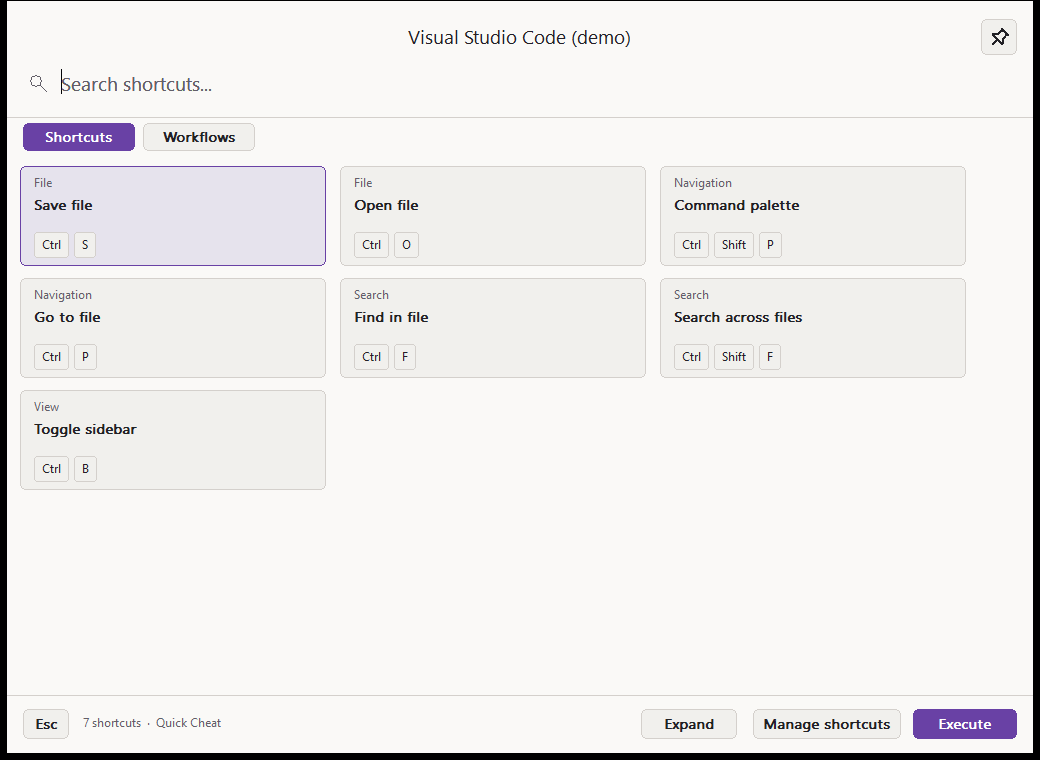
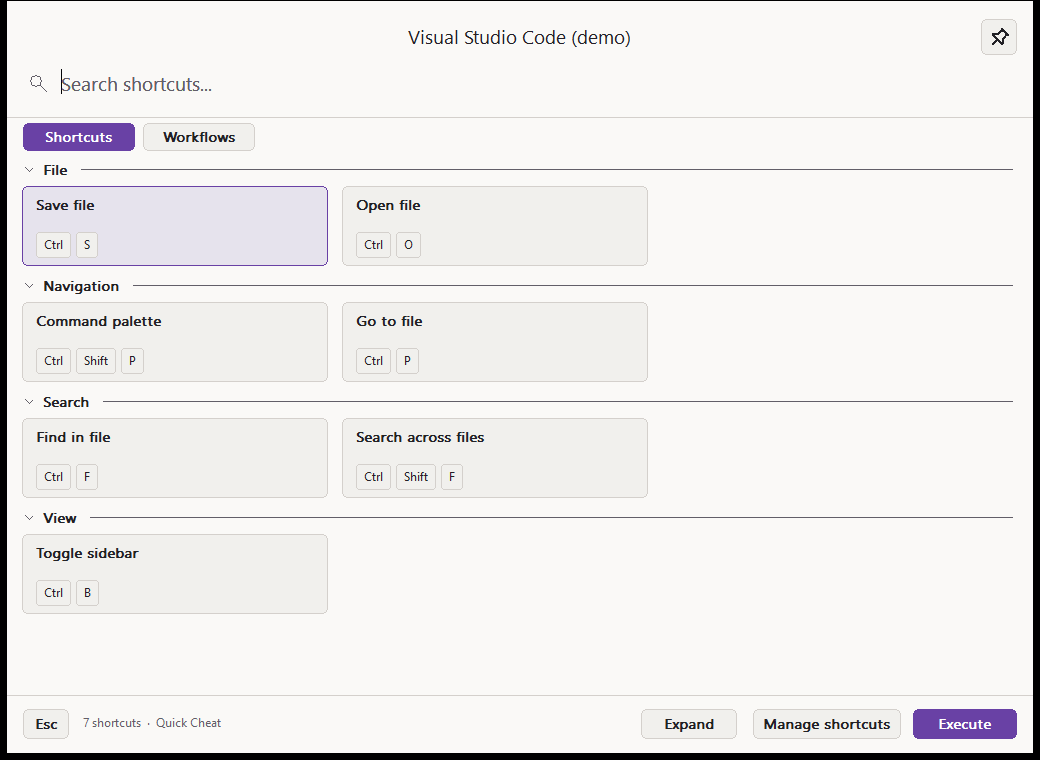
feat: group shortcut tiles in persistent collapsible categories

diff --git a/src/popup.cpp b/src/popup.cpp
@@ -7,6 +7,12 @@ constexpr int Search=6;
 void executeSelected(App& app){auto selected=app.selectedShortcut();if(selected>=0)app.execute(static_cast<size_t>(selected));}
 LRESULT CALLBACK rowProc(HWND h,UINT msg,WPARAM w,LPARAM l,UINT_PTR,DWORD_PTR value){
  auto* app=reinterpret_cast<App*>(value);
+ if(msg==WM_PAINT){auto result=DefSubclassProc(h,msg,w,l);HDC dc=GetDC(h);for(size_t i=0;i<app->shortcutCategories.size();++i){NMLVCUSTOMDRAW draw{};draw.nmcd.hdc=dc;draw.nmcd.dwItemSpec=i;app->drawCategory(&draw);}ReleaseDC(h,dc);return result;}
+ if(msg==WM_LBUTTONDOWN||msg==WM_LBUTTONDBLCLK){POINT point{static_cast<short>(LOWORD(l)),static_cast<short>(HIWORD(l))};if(app->clickCategory(point))return 0;}
+ if(msg==WM_LBUTTONUP||msg==WM_KEYUP){auto result=DefSubclassProc(h,msg,w,l);app->syncCategoryStates();return result;}
+ if(msg==WM_KEYDOWN&&(w==VK_LEFT||w==VK_RIGHT||w==VK_SPACE)){
+  for(size_t i=0;i<app->shortcutCategories.size();++i)if(ListView_GetGroupState(h,static_cast<int>(i),LVGS_FOCUSED)&LVGS_FOCUSED){LVGROUP group{sizeof(group)};group.mask=LVGF_STATE;group.stateMask=LVGS_COLLAPSED;bool collapsed=(ListView_GetGroupState(h,static_cast<int>(i),LVGS_COLLAPSED)&LVGS_COLLAPSED)!=0;group.state=(w==VK_LEFT||(w==VK_SPACE&&!collapsed))?LVGS_COLLAPSED:0;ListView_SetGroupInfo(h,static_cast<int>(i),&group);app->syncCategoryStates();return 0;}
+ }
  if(msg==WM_LBUTTONDOWN){auto result=DefSubclassProc(h,msg,w,l);app->pressedWindow=app->target.window;app->pressedProcess=app->target.process;app->pressedRow=app->selectedShortcut();app->updateShortcutDetail();SetFocus(app->search);return result;}
  if(msg==WM_KEYDOWN&&w==VK_RETURN){executeSelected(*app);return 0;}
  if(msg==WM_KEYDOWN&&w==VK_ESCAPE){app->hidePopup();return 0;}
@@ -18,7 +24,7 @@ LRESULT CALLBACK searchProc(HWND h,UINT msg,WPARAM w,LPARAM l,UINT_PTR,DWORD_PTR
  if(msg==WM_KEYDOWN){
  if(w==VK_ESCAPE){app->hidePopup();return 0;}if(w==VK_RETURN){if(app->workflowsVisible){SetFocus(app->workflowTree);auto item=TreeView_GetSelection(app->workflowTree);if(item)TreeView_Expand(app->workflowTree,item,TVE_TOGGLE);}else executeSelected(*app);return 0;}
  if(w==VK_OEM_COMMA&&(GetKeyState(VK_CONTROL)&0x8000)){app->openEditor();return 0;}
- if(w==VK_UP||w==VK_DOWN){if(app->workflowsVisible){SetFocus(app->workflowTree);SendMessageW(app->workflowTree,msg,w,l);return 0;}int count=static_cast<int>(app->visibleRows.size()),selected=app->selectedShortcut();if(count>0)app->selectShortcut(selected<0?0:(std::clamp)(selected+(w==VK_DOWN?1:-1),0,count-1));return 0;}
+ if(w==VK_UP||w==VK_DOWN){if(app->workflowsVisible){SetFocus(app->workflowTree);SendMessageW(app->workflowTree,msg,w,l);return 0;}app->moveShortcutSelection(w==VK_DOWN?1:-1);return 0;}
  }
  if(msg==WM_CHAR&&(w==VK_RETURN||w==VK_ESCAPE))return 0;
  if(msg==WM_PAINT){auto result=DefSubclassProc(h,msg,w,l);if(GetWindowTextLengthW(h)==0){HDC dc=GetDC(h);RECT r;GetClientRect(h,&r);r.left+=8;auto old=SelectObject(dc,app->bold);paintText(dc,app->workflowsVisible?L"Search workflows...":L"Search shortcuts...",r,app->theme.colors.muted);SelectObject(dc,old);ReleaseDC(h,dc);}return result;}
@@ -71,7 +77,7 @@ void App::layoutPopup(){
  InvalidateRect(popup,nullptr,TRUE);
 }
 void App::refreshPopup(bool clearSearch){
- if(!popup||updatingPopup)return;updatingPopup=true;pressedRow=-1;if(clearSearch)SetWindowTextW(search,L"");
+ if(!popup||updatingPopup)return;syncCategoryStates();updatingPopup=true;pressedRow=-1;if(clearSearch)SetWindowTextW(search,L"");
  auto* profile=currentProfile();auto query=textOf(search);visibleRows.clear();SendMessageW(rows,WM_SETREDRAW,FALSE,0);ListView_DeleteAllItems(rows);ListView_RemoveAllGroups(rows);
  SetWindowTextW(heading,(profile?profile->name:target.name.empty()?L"No active application":target.name).c_str());
  if(profile){for(size_t i=0;i<profile->shortcuts.size();++i)if(matchesShortcut(profile->shortcuts[i],query))visibleRows.push_back(i);
@@ -79,7 +85,7 @@ void App::refreshPopup(bool clearSearch){
  }populateShortcutTiles();
  ShowWindow(rows,visibleRows.empty()?SW_HIDE:SW_SHOWNA);ShowWindow(empty,visibleRows.empty()?SW_SHOWNA:SW_HIDE);
  SetWindowTextW(empty,query.empty()?L"No shortcuts for this application yet.\n\nOpen Manage shortcuts to add your first one.":L"No matching shortcuts.\n\nTry another description, category or key combination.");
- if(!visibleRows.empty())selectShortcut(0);EnableWindow(GetDlgItem(popup,CmdExecute),!visibleRows.empty());
+ if(!visibleRows.empty())moveShortcutSelection(1);EnableWindow(GetDlgItem(popup,CmdExecute),selectedShortcut()>=0);
  SendMessageW(rows,WM_SETREDRAW,TRUE,0);SetWindowTextW(footer,(std::to_wstring(visibleRows.size())+(visibleRows.size()==1?L" shortcut":L" shortcuts")+L"  ·  Quick Cheat").c_str());
  refreshWorkflowPopup();updatingPopup=false;layoutPopup();
 }
@@ -102,7 +108,7 @@ LRESULT CALLBACK App::popupProc(HWND h,UINT msg,WPARAM w,LPARAM l){
  case WM_DPICHANGED:{auto* r=reinterpret_cast<RECT*>(l);SetWindowPos(h,nullptr,r->left,r->top,r->right-r->left,r->bottom-r->top,SWP_NOZORDER|SWP_NOACTIVATE);app->layoutPopup();return 0;}
  case WM_DRAWITEM:app->theme.drawControl(reinterpret_cast<DRAWITEMSTRUCT*>(l));return TRUE;
  case WM_NOTIFY:{auto* notice=reinterpret_cast<NMHDR*>(l);if(notice->hwndFrom==app->workflowDetail&&notice->code==EN_LINK)return handleMarkdownLink(reinterpret_cast<ENLINK*>(l))?1:0;if(notice->hwndFrom==app->workflowTree&&notice->code==TVN_SELCHANGEDW)app->selectWorkflowStep();
- if(notice->hwndFrom==app->rows){if(notice->code==NM_CUSTOMDRAW){auto* draw=reinterpret_cast<NMLVCUSTOMDRAW*>(l);if(draw->nmcd.dwDrawStage==CDDS_PREPAINT)return CDRF_NOTIFYITEMDRAW;if(draw->nmcd.dwDrawStage==CDDS_ITEMPREPAINT&&draw->dwItemType==LVCDI_ITEM){DRAWITEMSTRUCT item{};item.itemID=static_cast<UINT>(draw->nmcd.dwItemSpec);item.hDC=draw->nmcd.hdc;ListView_GetItemRect(app->rows,item.itemID,&item.rcItem,LVIR_BOUNDS);if(ListView_GetItemState(app->rows,item.itemID,LVIS_SELECTED))item.itemState=ODS_SELECTED;app->drawRow(&item);return CDRF_SKIPDEFAULT;}return CDRF_DODEFAULT;}
+ if(notice->hwndFrom==app->rows){if(notice->code==NM_CUSTOMDRAW){auto* draw=reinterpret_cast<NMLVCUSTOMDRAW*>(l);if(draw->nmcd.dwDrawStage==CDDS_PREPAINT)return CDRF_NOTIFYITEMDRAW;if(draw->nmcd.dwDrawStage==CDDS_ITEMPREPAINT&&draw->dwItemType==LVCDI_GROUP){app->drawCategory(draw);return CDRF_SKIPDEFAULT;}if(draw->nmcd.dwDrawStage==CDDS_ITEMPREPAINT&&draw->dwItemType==LVCDI_ITEM){DRAWITEMSTRUCT item{};item.itemID=static_cast<UINT>(draw->nmcd.dwItemSpec);item.hDC=draw->nmcd.hdc;ListView_GetItemRect(app->rows,item.itemID,&item.rcItem,LVIR_BOUNDS);if(ListView_GetItemState(app->rows,item.itemID,LVIS_SELECTED))item.itemState=ODS_SELECTED;app->drawRow(&item);return CDRF_SKIPDEFAULT;}return CDRF_DODEFAULT;}
  if(notice->code==LVN_ITEMCHANGED&&!app->updatingPopup)app->updateShortcutDetail();
  if(notice->code==NM_DBLCLK){int index=reinterpret_cast<NMITEMACTIVATE*>(l)->iItem;bool valid=index>=0&&index==app->pressedRow&&app->pressedWindow==app->target.window&&app->pressedProcess==app->target.process;app->pressedRow=-1;if(valid)app->execute(static_cast<size_t>(index));}}
  return 0;}

diff --git a/src/category_groups.cpp b/src/category_groups.cpp
@@ -1,0 +1,61 @@
+#include "app.hpp"
+#include <algorithm>
+#include <cwctype>
+namespace qc {
+namespace {
+std::wstring preferenceKey(const std::wstring& value){
+ constexpr wchar_t digits[]=L"0123456789abcdef";std::wstring key;
+ for(auto character:value){auto c=static_cast<unsigned>(towlower(character));for(int shift=12;shift>=0;shift-=4)key+=digits[(c>>shift)&15];}return key;
+}
+std::filesystem::path preferencesPath(const std::filesystem::path& file){return std::filesystem::absolute(file).parent_path()/L"ui-state.ini";}
+}
+bool App::shortcutVisible(int index) const{
+ if(index<0||index>=static_cast<int>(visibleRows.size()))return false;
+ LVITEMW item{};item.mask=LVIF_GROUPID;item.iItem=index;if(!ListView_GetItem(rows,&item))return false;
+ return !(ListView_GetGroupState(rows,item.iGroupId,LVGS_COLLAPSED)&LVGS_COLLAPSED);
+}
+void App::moveShortcutSelection(int direction){
+ int selected=selectedShortcut(),count=static_cast<int>(visibleRows.size());int next=selected<0?(direction>0?0:count-1):selected+direction;
+ for(;next>=0&&next<count;next+=direction)if(shortcutVisible(next)){selectShortcut(next);return;}
+}
+void App::populateShortcutTiles(){
+ auto* profile=currentProfile();shortcutCategories.clear();categoryProfile=profile?profile->executable:L"";categorySearch=!textOf(search).empty();if(!profile)return;
+ ListView_EnableGroupView(rows,TRUE);tileDpi=0;auto prefs=preferencesPath(file);auto section=preferenceKey(categoryProfile);
+ for(size_t i=0;i<visibleRows.size();++i){const auto& shortcut=profile->shortcuts[visibleRows[i]];auto name=shortcut.category.empty()?L"General":shortcut.category;
+ auto found=std::find_if(shortcutCategories.begin(),shortcutCategories.end(),[&](const auto& category){return _wcsicmp(category.name.c_str(),name.c_str())==0;});int groupId=static_cast<int>(found-shortcutCategories.begin());
+ if(found==shortcutCategories.end()){
+  bool collapsed=!categorySearch&&GetPrivateProfileIntW(section.c_str(),preferenceKey(name).c_str(),0,prefs.c_str())!=0;shortcutCategories.push_back({name,collapsed});
+  LVGROUP group{sizeof(group)};group.mask=LVGF_HEADER|LVGF_GROUPID|LVGF_STATE|LVGF_ALIGN;group.pszHeader=name.data();group.iGroupId=groupId;group.uAlign=LVGA_HEADER_LEFT;group.stateMask=LVGS_COLLAPSIBLE|LVGS_COLLAPSED;group.state=LVGS_COLLAPSIBLE|(collapsed?LVGS_COLLAPSED:0);ListView_InsertGroup(rows,-1,&group);
+ }
+ auto label=shortcut.title+L" — "+formatChord(shortcut.chord)+L" ("+name+L")";LVITEMW item{};item.mask=LVIF_TEXT|LVIF_GROUPID;item.iItem=static_cast<int>(i);item.iGroupId=groupId;item.pszText=label.data();ListView_InsertItem(rows,&item);
+ }
+}
+void App::syncCategoryStates(){
+ if(!rows||updatingPopup||shortcutCategories.empty())return;
+ auto prefs=preferencesPath(file);auto section=preferenceKey(categoryProfile);bool failed=false,changed=false;
+ for(size_t i=0;i<shortcutCategories.size();++i){auto& category=shortcutCategories[i];bool collapsed=(ListView_GetGroupState(rows,static_cast<int>(i),LVGS_COLLAPSED)&LVGS_COLLAPSED)!=0;
+  if(collapsed==category.collapsed)continue;category.collapsed=collapsed;pressedRow=-1;changed=true;
+  if(!categorySearch&&!WritePrivateProfileStringW(section.c_str(),preferenceKey(category.name).c_str(),collapsed?L"1":L"0",prefs.c_str()))failed=true;
+ }
+ auto* profile=currentProfile();if(changed&&profile&&profile->executable==categoryProfile){int selected=ListView_GetNextItem(rows,-1,LVNI_SELECTED);if(selected>=0&&!shortcutVisible(selected))ListView_SetItemState(rows,selected,0,LVIS_SELECTED|LVIS_FOCUSED);updateShortcutDetail();}
+ if(failed&&!categorySaveWarning){categorySaveWarning=true;error(L"Cannot save category expansion preferences. Check access to the data folder.\n\n"+prefs.wstring(),popup);}
+}
+bool App::clickCategory(POINT point){
+ for(size_t i=0;i<shortcutCategories.size();++i){RECT rect{};if(!ListView_GetGroupRect(rows,static_cast<int>(i),LVGGR_HEADER,&rect)||!PtInRect(&rect,point))continue;
+  pressedRow=-1;ListView_SetItemState(rows,-1,0,LVIS_SELECTED|LVIS_FOCUSED);
+  LVGROUP group{sizeof(group)};group.mask=LVGF_STATE;group.stateMask=LVGS_COLLAPSED|LVGS_FOCUSED;group.state=LVGS_FOCUSED|((ListView_GetGroupState(rows,static_cast<int>(i),LVGS_COLLAPSED)&LVGS_COLLAPSED)?0:LVGS_COLLAPSED);
+  ListView_SetGroupInfo(rows,static_cast<int>(i),&group);SetFocus(rows);syncCategoryStates();InvalidateRect(rows,nullptr,FALSE);return true;
+ }return false;
+}
+void App::drawCategory(NMLVCUSTOMDRAW* draw){
+ int id=static_cast<int>(draw->nmcd.dwItemSpec);if(id<0||id>=static_cast<int>(shortcutCategories.size()))return;auto dc=draw->nmcd.hdc;RECT rect{};if(!ListView_GetGroupRect(rows,id,LVGGR_HEADER,&rect))return;
+ RECT client{},visible{};GetClientRect(rows,&client);if(!IntersectRect(&visible,&rect,&client))return;
+ auto px=[&](int n){return MulDiv(n,GetDpiForWindow(rows),96);};auto state=ListView_GetGroupState(rows,id,LVGS_COLLAPSED|LVGS_FOCUSED);FillRect(dc,&rect,theme.background);
+ int center=(rect.top+rect.bottom)/2,x=rect.left+px(12);HPEN pen=CreatePen(PS_SOLID,(std::max)(1,px(1)),theme.colors.muted);auto oldPen=SelectObject(dc,pen);
+ if(state&LVGS_COLLAPSED){MoveToEx(dc,x,center-px(4),nullptr);LineTo(dc,x+px(4),center);LineTo(dc,x,center+px(4));}
+ else{MoveToEx(dc,x-px(2),center-px(2),nullptr);LineTo(dc,x+px(2),center+px(2));LineTo(dc,x+px(6),center-px(2));}
+ auto oldFont=SelectObject(dc,font);auto& label=shortcutCategories[id].name;RECT text=rect;text.left=x+px(16);text.right-=px(16);paintText(dc,label,text,theme.colors.text,DT_SINGLELINE|DT_VCENTER|DT_END_ELLIPSIS|DT_NOPREFIX);
+ SIZE size{};GetTextExtentPoint32W(dc,label.c_str(),static_cast<int>(label.size()),&size);int start=text.left+size.cx+px(14);if(start<rect.right-px(16)){MoveToEx(dc,start,center,nullptr);LineTo(dc,rect.right-px(12),center);}
+ SelectObject(dc,oldFont);SelectObject(dc,oldPen);DeleteObject(pen);if((state&LVGS_FOCUSED)&&GetFocus()==rows){InflateRect(&rect,-px(2),-px(2));DrawFocusRect(dc,&rect);}
+}
+}

diff --git a/src/shortcut_tiles.cpp b/src/shortcut_tiles.cpp
@@ -1,32 +1,25 @@
 #include "app.hpp"
 #include <algorithm>
 namespace qc {
-int App::selectedShortcut() const{return rows?ListView_GetNextItem(rows,-1,LVNI_SELECTED):-1;}
+int App::selectedShortcut() const{int index=rows?ListView_GetNextItem(rows,-1,LVNI_SELECTED):-1;return shortcutVisible(index)?index:-1;}
 void App::selectShortcut(int index){
- if(index<0||index>=static_cast<int>(visibleRows.size()))return;
+ if(!shortcutVisible(index))return;
  ListView_SetItemState(rows,-1,0,LVIS_SELECTED|LVIS_FOCUSED);ListView_SetItemState(rows,index,LVIS_SELECTED|LVIS_FOCUSED,LVIS_SELECTED|LVIS_FOCUSED);ListView_EnsureVisible(rows,index,FALSE);
  EnableWindow(GetDlgItem(popup,CmdExecute),!workflowsVisible);updateShortcutDetail();
-}
-void App::populateShortcutTiles(){
- auto* profile=currentProfile();if(!profile)return;
- for(size_t i=0;i<visibleRows.size();++i){const auto& shortcut=profile->shortcuts[visibleRows[i]];
- auto label=shortcut.title+L" — "+formatChord(shortcut.chord)+L" ("+(shortcut.category.empty()?L"General":shortcut.category)+L")";LVITEMW item{};item.mask=LVIF_TEXT;item.iItem=static_cast<int>(i);item.pszText=label.data();ListView_InsertItem(rows,&item);
- }
 }
 void App::layoutShortcutTiles(){
  if(!rows||workflowsVisible)return;UINT dpi=GetDpiForWindow(popup);auto px=[&](int n){return MulDiv(n,dpi,96);};RECT r;GetClientRect(rows,&r);
  int usable=(std::max)(static_cast<int>(r.right)-px(32)-GetSystemMetricsForDpi(SM_CXVSCROLL,dpi),px(200));tileColumns=(std::max)(1,usable/px(300));int nextWidth=usable/tileColumns;
  if(nextWidth!=tileWidth||tileDpi!=dpi){bool previous=updatingPopup,redraw=IsWindowVisible(rows)&&!previous;updatingPopup=true;if(redraw)SendMessageW(rows,WM_SETREDRAW,FALSE,0);
  // Re-enter tile view after updating geometry to invalidate native item positions.
- ListView_SetView(rows,LV_VIEW_ICON);LVTILEVIEWINFO tiles{};tiles.cbSize=sizeof(tiles);tiles.dwMask=LVTVIM_TILESIZE;tiles.dwFlags=LVTVIF_FIXEDSIZE;tiles.sizeTile={nextWidth,px(112)};ListView_SetTileViewInfo(rows,&tiles);ListView_SetView(rows,LV_VIEW_TILE);tileWidth=nextWidth;tileDpi=dpi;
+ ListView_SetView(rows,LV_VIEW_ICON);LVTILEVIEWINFO tiles{};tiles.cbSize=sizeof(tiles);tiles.dwMask=LVTVIM_TILESIZE;tiles.dwFlags=LVTVIF_FIXEDSIZE;tiles.sizeTile={nextWidth,px(92)};ListView_SetTileViewInfo(rows,&tiles);ListView_SetView(rows,LV_VIEW_TILE);tileWidth=nextWidth;tileDpi=dpi;
  updatingPopup=previous;if(redraw)SendMessageW(rows,WM_SETREDRAW,TRUE,0);}
  InvalidateRect(rows,nullptr,FALSE);
 }
 void App::drawRow(DRAWITEMSTRUCT* item){
  auto* profile=currentProfile();if(!profile||item->itemID>=visibleRows.size())return;const auto& shortcut=profile->shortcuts[visibleRows[item->itemID]];
  HDC dc=item->hDC;UINT dpi=GetDpiForWindow(popup);auto px=[&](int n){return MulDiv(n,dpi,96);};auto& c=theme.colors;RECT body=item->rcItem;InflateRect(&body,-px(5),-px(5));bool selected=(item->itemState&ODS_SELECTED)!=0;
- rounded(dc,body,selected?c.selection:c.panel,selected?c.accent:c.border,px(10));auto original=SelectObject(dc,labelFont);RECT category{body.left+px(14),body.top+px(9),body.right-px(14),body.top+px(25)};paintText(dc,shortcut.category.empty()?L"General":shortcut.category,category,c.muted,DT_SINGLELINE|DT_END_ELLIPSIS|DT_NOPREFIX);
- SelectObject(dc,font);RECT title{body.left+px(14),body.top+px(29),body.right-px(14),body.top+px(65)};paintText(dc,shortcut.title,title,c.text,DT_WORDBREAK|DT_NOPREFIX|DT_END_ELLIPSIS);
+ rounded(dc,body,selected?c.selection:c.panel,selected?c.accent:c.border,px(10));auto original=SelectObject(dc,font);RECT title{body.left+px(14),body.top+px(9),body.right-px(14),body.top+px(45)};paintText(dc,shortcut.title,title,c.text,DT_WORDBREAK|DT_NOPREFIX|DT_END_ELLIPSIS);
  SelectObject(dc,labelFont);auto chord=formatChord(shortcut.chord);size_t begin=0;int x=body.left+px(14),top=body.bottom-px(34);
  while(begin<chord.size()){auto end=chord.find(L'+',begin);auto token=chord.substr(begin,end==chord.npos?end:end-begin);SIZE size{};GetTextExtentPoint32W(dc,token.c_str(),static_cast<int>(token.size()),&size);RECT key{x,top,x+size.cx+px(16),top+px(26)};
  if(key.right>body.right-px(8)){RECT overflow{x,top,body.right-px(8),top+px(26)};paintText(dc,L"…",overflow,c.muted);break;}

diff --git a/src/app.hpp b/src/app.hpp
@@ -4,12 +4,13 @@
 #include <commctrl.h>
 #include <memory>
 namespace qc {
-constexpr wchar_t version[]=L"0.2.0-alpha.5";
+constexpr wchar_t version[]=L"0.2.0-alpha.6";
 constexpr UINT ForegroundChanged=WM_APP+1, TrayMessage=WM_APP+2, ExecuteRow=WM_APP+3;
 constexpr UINT CmdOpen=100,CmdManage=101,CmdData=102,CmdExit=103,CmdNew=104,CmdExecute=105,CmdShortcuts=106,CmdWorkflows=107,CmdManageWorkflows=108,CmdExpand=109,CmdPin=110,CmdPopupClose=111;
 struct Target { HWND window{}; DWORD process{}; std::wstring executable,name; };
 struct Editor;
 struct WorkflowEditor;
+struct ShortcutCategory {std::wstring name;bool collapsed{};};
 struct App {
  HINSTANCE instance{};HWND host{},popup{},rows{},heading{},empty{},footer{},search{};HFONT font{},labelFont{},bold{};Theme theme;bool updatingPopup{};UINT popupDpi{};
  HWINEVENTHOOK foregroundHook{};Target target;Store store;std::filesystem::path file;
@@ -17,6 +18,7 @@ struct App {
  HWND workflowTree{},workflowDetail{},shortcutDetail{};bool workflowsVisible{},refreshingWorkflows{};
  SIZE popupSize{1040,760};bool popupExpanded{},popupSizing{};
  bool popupPinned{};int tileColumns{1},tileWidth{300};UINT tileDpi{};
+ std::vector<ShortcutCategory> shortcutCategories;std::wstring categoryProfile;bool categorySearch{},categorySaveWarning{};
  std::unique_ptr<WorkflowEditor> workflowEditor;
  std::unique_ptr<Editor> editor;std::vector<size_t> visibleRows;bool trayAdded{};int hotkeyId{1};UINT taskbarCreated{};
  App();~App();
@@ -25,6 +27,7 @@ struct App {
  void togglePopup();void hidePopup(bool restore=true);void refreshPopup(bool clearSearch=false);void createPopup();void layoutPopup();void drawRow(DRAWITEMSTRUCT* item);void applyTheme();
  void openEditor();void execute(size_t visibleIndex);void trayMenu();void addTray();
  void positionPopup(bool opening);void togglePopupSize();void rememberPopupSize();void layoutShortcutTiles();void updateShortcutDetail();void populateShortcutTiles();int selectedShortcut() const;void selectShortcut(int index);
+ bool shortcutVisible(int index) const;void moveShortcutSelection(int direction);void syncCategoryStates();bool clickCategory(POINT point);void drawCategory(NMLVCUSTOMDRAW* draw);
  void createWorkflowPopup();void refreshWorkflowPopup();void layoutWorkflowPopup();void selectWorkflowStep();void styleWorkflowPopup();void openWorkflowEditor(const std::wstring& executable);
  bool commit(Store candidate);
  Profile* currentProfile();

diff --git a/src/main.cpp b/src/main.cpp
@@ -14,6 +14,7 @@ void CALLBACK foregroundEvent(HWINEVENTHOOK,DWORD,HWND window,LONG object,LONG,D
 }
 App::App()=default;
 App::~App() {
+ syncCategoryStates();
  theme.stop();
  if(foregroundHook)UnhookWinEvent(foregroundHook);
  if(host){UnregisterHotKey(host,hotkeyId);NOTIFYICONDATAW n{sizeof(n)};n.hWnd=host;n.uID=1;Shell_NotifyIconW(NIM_DELETE,&n);}
@@ -64,7 +65,7 @@ void App::onForeground(HWND window) {
  if(wcscmp(cls,L"Shell_TrayWnd")==0||wcscmp(cls,L"Shell_SecondaryTrayWnd")==0||wcscmp(cls,L"NotifyIconOverflowWindow")==0||wcscmp(cls,L"TopLevelWindowForOverflowXamlIsland")==0||wcscmp(cls,L"#32768")==0||(GetWindowLongPtrW(window,GWL_EXSTYLE)&WS_EX_NOACTIVATE))return;
  auto next=identify(window);if(!next.window||next.executable.empty())return;
  if(next.window==target.window&&next.process==target.process&&next.executable==target.executable)return;
- target=std::move(next);if(popup&&IsWindowVisible(popup))refreshPopup(true);
+ syncCategoryStates();target=std::move(next);if(popup&&IsWindowVisible(popup))refreshPopup(true);
 }
 Profile* App::currentProfile() { for(auto& p:store.profiles)if(p.executable==target.executable)return &p;return nullptr; }
 void App::togglePopup() {
@@ -74,10 +75,10 @@ void App::togglePopup() {
  positionPopup(true);
  layoutPopup();SetForegroundWindow(popup);SetFocus(search);
 }
-void App::hidePopup(bool restore){if(!popup)return;bool ownFocus=GetForegroundWindow()==popup;ShowWindow(popup,SW_HIDE);if(workflowDetail)clearMarkdown(workflowDetail);if(restore&&ownFocus&&targetAlive(target))SetForegroundWindow(target.window);}
+void App::hidePopup(bool restore){if(!popup)return;syncCategoryStates();bool ownFocus=GetForegroundWindow()==popup;ShowWindow(popup,SW_HIDE);if(workflowDetail)clearMarkdown(workflowDetail);if(restore&&ownFocus&&targetAlive(target))SetForegroundWindow(target.window);}
 void App::applyTheme(){theme.resolve(store.theme);theme.style(popup);styleWorkflowPopup();if(editor)theme.style(editor->window);if(workflowEditor)theme.style(workflowEditor->window);}
 void App::execute(size_t index) {
- if(workflowsVisible)return;
+ if(workflowsVisible||!shortcutVisible(static_cast<int>(index)))return;
  // Re-read actual foreground before consulting a potentially stale event.
  HWND foreground=GetForegroundWindow();DWORD pid=0;GetWindowThreadProcessId(foreground,&pid);
  if(pid!=GetCurrentProcessId()&&foreground!=target.window){onForeground(foreground);return;}

diff --git a/docs/validation-0.2.0-alpha.6.md b/docs/validation-0.2.0-alpha.6.md
@@ -1,0 +1,29 @@
+# 0.2.0-alpha.6 — Categorias expansíveis nos atalhos
+
+## Alterações e decisões
+Atalhos agrupados em seções nativas do ListView: seta, nome da categoria e divisor horizontal, com blocos abaixo. Clique em qualquer parte do cabeçalho alterna o estado; Left/Right/Space funcionam no cabeçalho focado. Categoria deixa de repetir dentro do bloco; altura reduzida para 92px. Categorias que diferem apenas por caixa compartilham seção; sem categoria integra General.
+
+Estado por executável/categoria salvo no arquivo ui-state.ini junto de shortcuts.qc, respeitando --data-dir. Chaves hexadecimais de texto normalizado evitam caracteres especiais no INI. Categorias novas/renomeadas começam expandidas; preferências antigas são mantidas. Busca expande temporariamente os grupos de resultados e não grava esses estados. Gravação ocorre nas interações e antes de troca de contexto, refresh, ocultação/saída, sem polling. Falha de gravação produz aviso. Backups completos incluem ui-state.ini.
+
+Seleção e execução validam visibilidade; recolher uma categoria limpa a seleção oculta e invalida o clique pendente. Setas da busca pulam itens recolhidos. Todos os grupos recolhidos continuam mostrando seus cabeçalhos. Schema v3, dados pessoais e fluxos não alterados.
+
+## Evidências
+- Release x64 compilada com scripts/build.ps1 -SkipTests; nenhum teste adicionado ou executado.
+- Capturas DEMO Dark/Light: primeira inspeção identificou cabeçalhos nativos sem as cores do tema; ajustada pintura final dos cabeçalhos. Confirmação mostra divisores, nomes, setas e blocos compactos sem sobreposição.
+- Inspeção do caminho de persistência, busca, seleção/execução e troca de contexto. Arquivo de preferências usa a chave do perfil que originou os grupos, evitando gravar estado no app seguinte.
+- git diff --check sem erros. Sem alegação de teste automatizado de persistência/reinício ou validação completa de DPI/High Contrast/acessibilidade.
+
+## Aceitação manual pendente
+1. No ChatGPT, recolher algumas categorias e manter outras abertas; fechar/reabrir popup e reiniciar o app. Cada estado deve reaparecer.
+2. Em outro aplicativo, usar categorias de mesmo nome com estados diferentes; alternar apps e conferir independência.
+3. Recolher todas: cabeçalhos continuam acessíveis, Execute fica desabilitado e Enter não executa item oculto.
+4. Buscar atalho de categoria recolhida: deve aparecer; limpar busca restaura o estado anterior. Setas percorrem apenas itens de grupos abertos.
+5. Mouse no cabeçalho não executa atalhos; clique simples/duplo e Execute nos blocos mantêm os comportamentos anteriores. Conferir Left/Right/Space com cabeçalho focado.
+6. Redimensionar, trocar temas/DPI/monitor, navegar com teclado e conferir nomes longos, categorias vazias e variantes de caixa.
+
+## Entrega
+Gitflow: feature/0.2.0-collapsible-shortcut-categories → develop → release/0.2.0-alpha.6. Candidata aguardando aceitação; main permanece no release publicado.
+
+## APIs de referência
+- https://learn.microsoft.com/en-us/windows/win32/api/commctrl/ns-commctrl-lvgroup
+- https://learn.microsoft.com/en-us/windows/win32/controls/lvm-getgrouprect

diff --git a/README.md b/README.md
@@ -45,6 +45,8 @@ You can also open the library from the tray icon. If the default hotkey is alrea
 
 Shortcuts and settings are stored in `%LOCALAPPDATA%\QuickCheat\shortcuts.qc`. The previous save is kept as `shortcuts.qc.bak`. To restore it, exit the app, keep a copy of the current file and replace it with the backup.
 
+Category expansion preferences are saved separately in `ui-state.ini` in the same folder, including when using `--data-dir`. Include this file in backups to preserve the layout.
+
 For separate demo or portable data, launch `QuickCheat.exe --data-dir <directory>`. Only one instance can run per Windows session.
 
 ## Current scope
@@ -53,7 +55,7 @@ Windows x64 only. Windows 10 1809+ and Windows 11 are the intended API baseline;
 
 Each shortcut contains one key combination. Docks, community sharing, an installer and automatic updates are planned for later consideration.
 
-## Workflows — 0.2.0-alpha.5 candidate
+## Workflows — 0.2.0-alpha.6 candidate
 
 The development build adds local step-by-step guides for each application. In the shortcut library, choose an application and click **Manage workflows**. Enter a title, add your steps, reorder them with **Move up / Move down**, and click **Save workflow**. Changes to the step text are included when you save the workflow.
 
@@ -68,6 +70,8 @@ The popup opens larger and fits the current monitor. Drag its edges to resize, d
 Applications with saved workflows show **Shortcuts / Workflows** tabs in the popup. Expand a guide and select a step to read its full text. At wider sizes, guides and step text appear side by side; smaller windows stack them. Shortcuts use responsive cards, with category, description and keycaps kept together. Long descriptions or key combinations have a full-text reader. Search filters workflow titles. These are reference guides; they do not execute commands.
 
 The active application's name is larger and centered above search. Use the pin icon in the top-right corner to keep the popup open; the red **×** beside it closes the popup while leaving Quick Cheat in the tray. Hover over either icon for its label.
+
+Shortcuts appear under category headers with a divider. Click a header to collapse or expand its cards. Quick Cheat remembers each category's state for each application across restarts. New categories start expanded; uncategorized shortcuts appear under **General**. Search reveals matching shortcuts without changing saved expansion preferences. With a category header focused, use Left/Right to collapse/expand or Space to toggle.
 
 ![Local workflow editor](docs/images/workflow-editor-dark.png)
 

diff --git a/DESIGN.md b/DESIGN.md
@@ -27,3 +27,6 @@ The active-app title is centered on a dedicated header line, using the existing 
 
 ## Markdown and attached images
 Workflow step source remains editable Markdown text. A lazily created native Rich Edit reader renders basic formatting with the pinned MD4C parser, following the current palette and DPI. WIC normalizes attached images to managed local PNG files; only these relative references render. No browser engine, network image fetching or HTML execution. Clear rendered images on hide/tab switch and cache unchanged visible content; width changes use a one-shot resize debounce. Attach image... inserts a reference at the editor selection; Save workflow persists it. Unreferenced files are retained to preserve backup references.
+
+## Shortcut categories
+Native ListView groups place each category above its responsive cards, with a themed chevron, name and horizontal divider. The header is clickable across its width; native group focus and keyboard access remain. Cards omit the repeated category caption and use 92px tiles. Hidden items are excluded from selection/execution. Group labels differing only by case share a section; empty categories join General. Persist expansion per executable/category in ui-state.ini, with encoded case-normalized keys. New categories expand by default. Search temporarily opens matching groups without saving those temporary states. Save on user interaction and before context replacement/hide/exit; no polling or shortcut-schema migration.

diff --git a/CHANGELOG.md b/CHANGELOG.md
@@ -1,5 +1,9 @@
 # Changelog
 
+## 0.2.0-alpha.6 — 2026-10-18
+
+Shortcut cards are grouped beneath themed category headers with a divider and expand/collapse chevron. Click a header to toggle it. Expansion preferences are saved per executable and category in ui-state.ini, alongside shortcuts.qc; new categories default to expanded. Search temporarily reveals matching categories without changing saved preferences. Hidden shortcuts cannot be selected or executed; search navigation skips collapsed groups. Native group keyboard access is retained. Cards no longer repeat their category label. Schema v3 and workflow data are unchanged. Release build and isolated dark/light captures completed; manual acceptance pending, no tests added or run.
+
 ## 0.2.0-alpha.5 — 2026-10-18
 
 Larger, centered active-application title in the popup header, with search on its own line. Native DPI-scaled pin and red close icons replace button text; pin state keeps its accent highlight and accessible names/tooltips remain available. High Contrast uses system colors. Close remains visible only while pinned. Shortcut and workflow layouts accommodate the taller header. Data format and popup behavior are unchanged. Release compilation and isolated dark/light captures completed; no tests added or run. Candidate awaiting acceptance.

diff --git a/docs/plans/2026-10-18-collapsible-shortcut-categories.md b/docs/plans/2026-10-18-collapsible-shortcut-categories.md
@@ -1,0 +1,9 @@
+# Collapsible shortcut categories — 0.2.0-alpha.6
+
+Requested: category name and divider above shortcut cards, expandable/collapsible sections, last state saved for each category of each app.
+
+Use native ListView groups with themed header drawing and native state/accessibility. Keep responsive tiles below each header, removing redundant category captions. Header click toggles; native focused groups support Left/Right/Space. Skip hidden shortcuts in selection/execution and search arrows.
+
+Persist view preferences separately in ui-state.ini using executable/category keys encoded as hexadecimal, case normalized. Read defaults as expanded. Search shows matches with temporary expanded sections, preserving saved states. Save only changed states on interaction and before context replacement, refresh, hide or shutdown; no polling, dependency or schema migration. New/renamed categories start expanded; stale preferences are harmless and retained.
+
+Build Release with SkipTests, inspect isolated Dark/Light captures in bounded passes, document in Library and prepare a Gitflow release branch. Manual restart, multi-app, keyboard and accessibility acceptance remains with the user.

diff --git a/CLAUDE.md b/CLAUDE.md
@@ -14,3 +14,5 @@ Product documentation: Apps > Quick Cheat, `tgslib://51be8b49abe30ba3`.
 Popup PIN defaults off and hides the popup on focus loss; PIN on keeps it open across focus loss/execution/hotkey and exposes Close beside PIN. Shortcut cards use native ListView tile view; retain category labels, single selection, intentional double-click/Execute/Enter and native keyboard access.
 
 Workflow Markdown uses pinned MD4C + lazy native Rich Edit, with WIC-managed local PNG attachments. Schema v3 stores Markdown references; preserve the attachments directory in backups. Never fetch remote images or execute HTML. Clear rendered assets on hide; retain unreferenced files for backup safety. Include MD4C MIT notice in binary packages.
+
+Shortcut categories use collapsible native ListView groups above compact cards, with a themed header/divider. Persist per-app/category state in ui-state.ini, separate from schema v3. Default expanded; search expands matching groups temporarily without modifying preferences. Never select/execute collapsed items. Category headers replace category labels inside cards (supersedes the alpha.3 layout).
